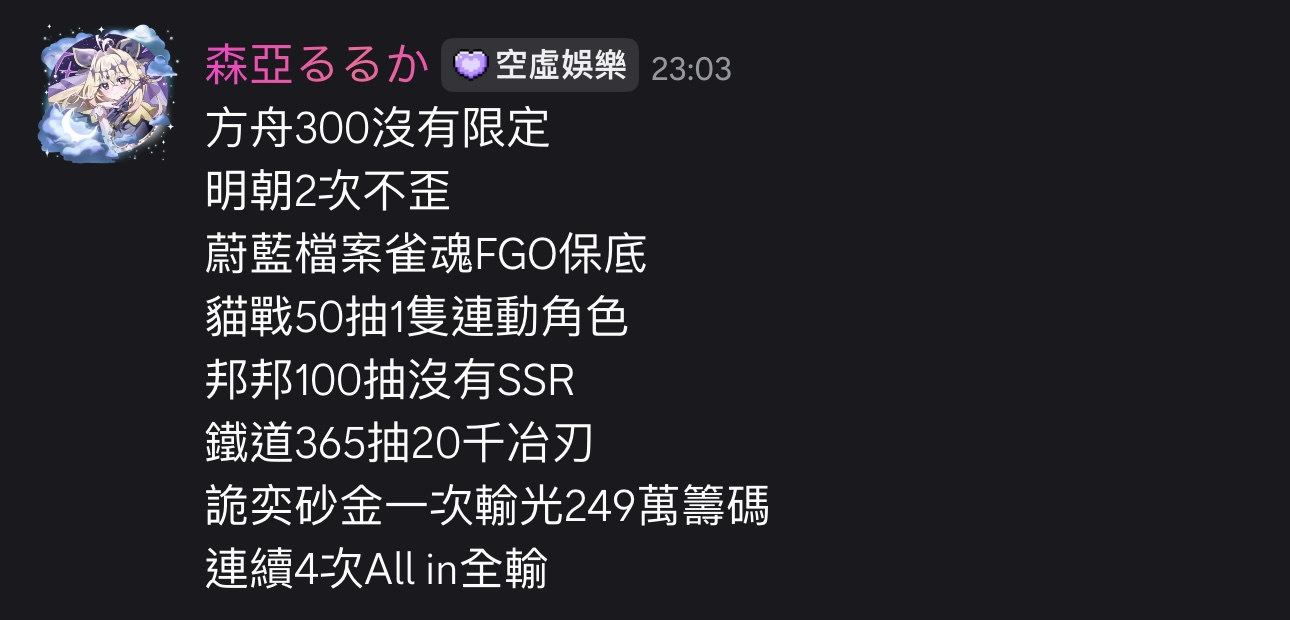
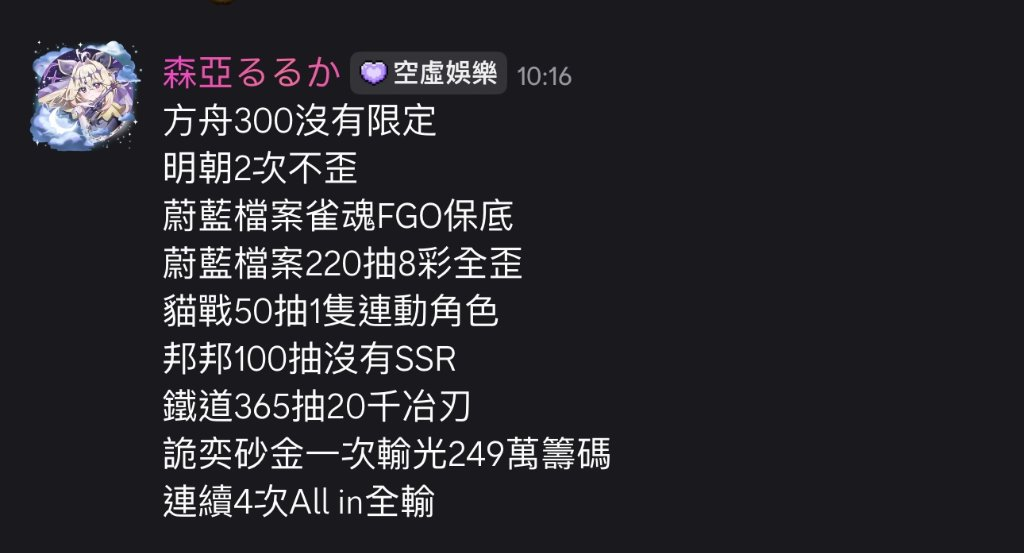
feat(chat): update nmsl2887 50w photo and add new gacha records to persona

Changed region(s): [[0.1562, 0.2767, 0.5938, 0.953], [0.0312, 0.0307, 0.5625, 0.2767]]

diff --git a/test_nmsl_trigger_photo.js b/test_nmsl_trigger_photo.js
@@ -1,0 +1,104 @@
+const assert = require('assert');
+const path = require('path');
+const fs = require('fs');
+const { get50wPhoto, get50kPhoto } = require('./discord-bot-tracker');
+const { buildSystemInstruction, getUserTitle, SPECIAL_USERS } = require('./geminiChatService');
+
+async function runTests() {
+  console.log('====================================================');
+  console.log('🧪 開始執行 nmsl2887 (臭甲/50w) 觸發圖片與人設戰績更新測試 (test_nmsl_trigger_photo.js)');
+  console.log('====================================================\n');
+
+  const EXPECTED_IMAGE_SIZE = 69517;
+
+  // ------------------------------------------------------------------
+  // 1. 圖片讀取與 Attachment 結構驗證
+  // ------------------------------------------------------------------
+  console.log('▶ [1/4] 測試 get50wPhoto() 與 get50kPhoto() 讀取新圖片...');
+  const photos = get50wPhoto();
+  assert.strictEqual(Array.isArray(photos), true, 'get50wPhoto 必須回傳陣列');
+  assert.strictEqual(photos.length, 1, '回傳陣列長度必須為 1');
+  
+  const photo = photos[0];
+  assert(photo && photo.attachment, '必須包含 AttachmentBuilder 實體與 attachment 緩衝區');
+  assert(Buffer.isBuffer(photo.attachment), 'attachment 必須為 Buffer');
+  assert.strictEqual(photo.attachment.length, EXPECTED_IMAGE_SIZE, `圖片 Buffer 大小必須為 ${EXPECTED_IMAGE_SIZE} bytes (符合新圖片)`);
+  assert(photo.name.includes('50w.3'), `檔名必須包含 50w.3，當前為: ${photo.name}`);
+
+  const aliasPhotos = get50kPhoto();
+  assert.strictEqual(aliasPhotos.length, 1, 'get50kPhoto 別名函式長度必須為 1');
+  assert.strictEqual(aliasPhotos[0].attachment.length, EXPECTED_IMAGE_SIZE, '別名函式 Buffer 大小亦必須符合新圖片');
+  console.log(`  ✅ 通過：成功載入 50w.3 圖片 (檔案名稱: ${photo.name}, 大小: ${photo.attachment.length} bytes)！\n`);
+
+  // ------------------------------------------------------------------
+  // 2. 副檔名相容性驗證 (.jpg 回退測試)
+  // ------------------------------------------------------------------
+  console.log('▶ [2/4] 測試 candidatePaths 多副檔名相容性 (.png / .jpg)...');
+  const pngPath = path.join(__dirname, '50w.3.png');
+  const tempBackupPath = path.join(__dirname, '50w.3.png.bak_test');
+
+  try {
+    // 暫時將 50w.3.png 改名，測試是否能順暢 fallback 至 50w.3.jpg
+    fs.renameSync(pngPath, tempBackupPath);
+    assert(fs.existsSync(path.join(__dirname, '50w.3.jpg')), '50w.3.jpg 必須存在於工作區');
+
+    const fallbackPhotos = get50wPhoto();
+    assert.strictEqual(fallbackPhotos.length, 1, 'Fallback 至 .jpg 後陣列長度必須為 1');
+    assert.strictEqual(fallbackPhotos[0].attachment.length, EXPECTED_IMAGE_SIZE, 'Fallback 讀取之 .jpg 大小必須正確');
+    assert.strictEqual(fallbackPhotos[0].name, '50w.3.jpg', 'Fallback 檔名應為 50w.3.jpg');
+    console.log('  ✅ 通過：當 .png 不存在時，自動平滑相容並讀取 .jpg 候選路徑！\n');
+  } finally {
+    // 還原 50w.3.png
+    if (fs.existsSync(tempBackupPath)) {
+      fs.renameSync(tempBackupPath, pngPath);
+    }
+  }
+
+  // ------------------------------------------------------------------
+  // 3. geminiChatService 提示詞戰績補充驗證
+  // ------------------------------------------------------------------
+  console.log('▶ [3/4] 測試 geminiChatService 中 nmsl2887 提示詞新增戰績...');
+  const nmslInstruction = buildSystemInstruction({
+    id: SPECIAL_USERS.NMSL.id,
+    username: SPECIAL_USERS.NMSL.usernames[0],
+  }, false, false);
+
+  assert(nmslInstruction.includes('鐵道365抽20千治刃'), 'Prompt 必須包含「鐵道365抽20千治刃」');
+  assert(nmslInstruction.includes('詭弈砂金一次輸光249萬籌碼'), 'Prompt 必須包含「詭弈砂金一次輸光249萬籌碼」');
+  assert(nmslInstruction.includes('連續4次All in全輸'), 'Prompt 必須包含「連續4次All in全輸」');
+
+  // 對話者為一般成員時，人設檔案庫 (第 535 行) 亦需包含該戰績
+  const guestInstruction = buildSystemInstruction({
+    id: '123456789',
+    username: 'regular_guest',
+  }, false, false);
+  assert(guestInstruction.includes('鐵道365抽20千治刃'), '全域人設檔案庫必須包含「鐵道365抽20千治刃」');
+  assert(guestInstruction.includes('詭弈砂金一次輸光249萬籌碼'), '全域人設檔案庫必須包含「詭弈砂金一次輸光249萬籌碼」');
+  assert(guestInstruction.includes('連續4次All in全輸'), '全域人設檔案庫必須包含「連續4次All in全輸」');
+
+  console.log('  ✅ 通過：nmsl2887 專屬對話規則與全域人設檔案庫皆已注入慘烈新戰績！\n');
+
+  // ------------------------------------------------------------------
+  // 4. 月天狼與 nmsl2887 嚴格隔離互斥防禦
+  // ------------------------------------------------------------------
+  console.log('▶ [4/4] 測試月天狼人設隔離與圖片互斥守衛...');
+  const yueXiInstruction = buildSystemInstruction({
+    id: '987654321',
+    username: SPECIAL_USERS.YUE_XI.usernames[0],
+  }, false, false);
+
+  assert(yueXiInstruction.includes('嚴格隔離原則'), '月天狼 Prompt 必須維持嚴格隔離原則');
+  assert(!yueXiInstruction.includes('狠狠對比臭甲 50 萬'), '月天狼 Prompt 絕對不可出現「狠狠對比臭甲 50 萬」！');
+
+  console.log('  ✅ 通過：月天狼與 nmsl2887 人設及戰績 100% 嚴密隔離！\n');
+
+  console.log('====================================================');
+  console.log('🎉 [SUCCESS] nmsl2887 觸發圖片更新與人設擴充單元測試全數通過！');
+  console.log('====================================================');
+  process.exit(0);
+}
+
+runTests().catch((err) => {
+  console.error('❌ 測試未通過:', err);
+  process.exit(1);
+});

diff --git a/geminiChatService.js b/geminiChatService.js
@@ -436,7 +436,7 @@ ${ratioMemoryBlock}
     specificRule = `【當前對話者是「臭甲 / 甲甲 / 50萬 / ICAC (nmsl2887)」】：
 1. 請稱呼對方為「臭甲」、「甲甲」、「50萬」或「ICAC」（或 50 萬非酋貴賓）。你知道他喜歡男性。
 2. 必須狠狠無情吐槽他萬年大黑臉的非洲人抽卡慘況！
-   • 熟記他的慘烈戰績：明日方舟 300 抽沒有限定、鳴潮 2 次不歪、蔚藍檔案吃保底、貓戰 50 抽才 1 隻聯動角、雀魂與 FGO 瘋狂保底、邦邦 100 抽零 SSR！
+   • 熟記他的慘烈戰績：明日方舟 300 抽沒有限定、鳴潮 2 次不歪、蔚藍檔案吃保底、貓戰 50 抽才 1 隻聯動角、雀魂與 FGO 瘋狂保底、邦邦 100 抽零 SSR、鐵道365抽20千治刃、詭弈砂金一次輸光249萬籌碼、連續4次All in全輸！
    • 結合他的「50萬」標籤與非酋悲劇，用侍者優雅語調狠狠調侃他的抽卡命運，例如問他 300 抽墜機的傷口好了沒，推薦他喝「純度 100% 暴死眼淚機油特調」。`;
   } else if (userId === SPECIAL_USERS.XUAN.id || SPECIAL_USERS.XUAN.usernames.includes(username)) {
     specificRule = `【當前對話者是「酒鬼 (xuan_05 / xuan_0503)」】：
@@ -532,7 +532,7 @@ ${ratioMemoryBlock}
     `- popsicle_cat.：專屬稱謂「雪糕貓」。正在服兵役，抽卡運氣極差！關鍵梗：肉多多、小萱、一陽指、醫生。`,
     `- moria.ruruka：專屬稱謂「蘭斯的寶」，是「主人的情人」，尊貴溫柔。`,
     `- eric20233459：專屬稱謂「安寶」，伺服器暱稱「再卷一下」，也是「主人的情人」，愛內卷。`,
-    `- nmsl2887：專屬稱謂「臭甲」、「甲甲」、「50萬」或「ICAC」。喜歡男性。宇宙級大非酋！抽卡慘烈戰績（必狠狠吐槽）：明日方舟 300 抽沒有限定、鳴潮 2 次不歪、蔚藍檔案保底、貓戰 50 抽 1 聯動角、雀魂/FGO 保底、邦邦 100 抽零 SSR！`,
+    `- nmsl2887：專屬稱謂「臭甲」、「甲甲」、「50萬」或「ICAC」。喜歡男性。宇宙級大非酋！抽卡慘烈戰績（必狠狠吐槽）：明日方舟 300 抽沒有限定、鳴潮 2 次不歪、蔚藍檔案保底、貓戰 50 抽 1 聯動角、雀魂/FGO 保底、邦邦 100 抽零 SSR、鐵道365抽20千治刃、詭弈砂金一次輸光249萬籌碼、連續4次All in全輸！`,
     `- xuan_05 (xuan_0503)：專屬稱謂「酒鬼」。115 學測和分科失利考不好，目前是 116 學測重考生，督促他快去讀書別喝酒。`,
     `- phamctxd_0826：伺服器管理者、群主，暱稱「CT / ct」，私底下「極度擅長穿女裝」。稱呼其「群主大人」或「群主 CT」。`,
     `- paohong.：專屬稱謂「菸鬼」。老煙槍，愛抽菸。`,

diff --git a/discord-bot-tracker.js b/discord-bot-tracker.js
@@ -947,22 +947,40 @@ function getDrunkerPhoto() {
 }
 
 // ==========================================
-// 💩 臭甲 / ICAC (nmsl2887) 專屬 50w.3 圖片獲取函式 (絕對優先 50w.3.png)
+// 💩 臭甲 / ICAC (nmsl2887) 專屬 50w.3 圖片獲取函式 (絕對優先 50w.3 圖片，支援多副檔名相容性)
 // ==========================================
 function get50wPhoto() {
   const candidatePaths = [
     path.join(__dirname, '50w.3.png'),
+    path.join(__dirname, '50w.3.jpg'),
+    path.join(__dirname, '50w.3.jpeg'),
+    path.join(__dirname, '50w.3.webp'),
     path.join(process.cwd(), '50w.3.png'),
+    path.join(process.cwd(), '50w.3.jpg'),
+    path.join(process.cwd(), '50w.3.jpeg'),
+    path.join(process.cwd(), '50w.3.webp'),
     path.join(process.env.HOME || '', 'bot', '50w.3.png'),
+    path.join(process.env.HOME || '', 'bot', '50w.3.jpg'),
+    path.join(process.env.HOME || '', 'bot', '50w.3.jpeg'),
+    path.join(process.env.HOME || '', 'bot', '50w.3.webp'),
     path.join(process.env.HOME || '', '50w.3.png'),
+    path.join(process.env.HOME || '', '50w.3.jpg'),
     path.join(process.env.USERPROFILE || '', 'bot', '50w.3.png'),
+    path.join(process.env.USERPROFILE || '', 'bot', '50w.3.jpg'),
     'C:\\Users\\ayaka\\bot\\50w.3.png',
+    'C:\\Users\\ayaka\\bot\\50w.3.jpg',
+    'C:\\Users\\ayaka\\bot\\50w.3.jpeg',
+    'C:\\Users\\ayaka\\bot\\50w.3.webp',
     path.join(__dirname, '50w.2.png'),
+    path.join(__dirname, '50w.2.jpg'),
     path.join(process.cwd(), '50w.2.png'),
+    path.join(process.cwd(), '50w.2.jpg'),
     path.join(process.env.HOME || '', 'bot', '50w.2.png'),
     'C:\\Users\\ayaka\\bot\\50w.2.png',
     path.join(__dirname, '50w.png'),
+    path.join(__dirname, '50w.jpg'),
     path.join(process.cwd(), '50w.png'),
+    path.join(process.cwd(), '50w.jpg'),
     'C:\\Users\\ayaka\\bot\\50w.png',
   ];
 
@@ -3282,3 +3300,18 @@ process.on('SIGINT', () => {
     process.exit(0);
   });
 });
+
+// ==========================================
+// 📦 模組匯出 (供單元測試與外部呼叫)
+// ==========================================
+if (typeof module !== 'undefined' && module.exports) {
+  module.exports = {
+    get50wPhoto,
+    get50kPhoto,
+    getYueXiPhotos,
+    getSnowCatPhoto,
+    getLaPhoto,
+    getLaodaPhoto,
+    getDrunkerPhoto,
+  };
+}

diff --git a/progress.md b/progress.md
@@ -138,6 +138,13 @@
     • `CASINO_GUIDE.md` & `GAMBLING_AND_CURRENCY_MECHANICS.md`：全面同步 v6.0 制度，移除大逃殺買馬死文字；將白皮書第十一章對照總表全面升級為 v6.0 真實機制（轉帳 50k、紅包 200k/500k、砂金 100w/All-in、單挑 500w 0% 抽稅雙爆入庫、大逃殺 200w 團滅入庫、德州 0% 抽水、雙金庫 1000w/2000w 與 00:00 富人稅），結案第十二章各項落差。
     • 單元測試 `test_v60_ui_and_command_descriptions.js` 擴充至 5/5 全數 PASS。
 
+- **更新 nmsl2887 臭甲/50w 專屬觸發圖片與人設戰績 (`feat-chat-nmsl-trigger-photo-update`)**:
+  - 將 `50w.3.png` 與 `50w.3.jpg` 替換為使用者提供之最新慘烈戰績圖（大小為 69,517 bytes）。
+  - `discord-bot-tracker.js`：升級 `get50wPhoto()` 候選路徑清單，支援 `.png`、`.jpg`、`.jpeg`、`.webp` 等多副檔名相容性，且始終優先讀取 50w.3 系列最新圖片；導出圖片獲取函式供單元測試與模組化調用。
+  - `geminiChatService.js`：同步更新第 535 行全域特殊成員人設檔案庫與第 439 行 1-on-1 專屬吐槽規則，注入最新慘烈戰績：「鐵道365抽20千治刃、詭弈砂金一次輸光249萬籌碼、連續4次All in全輸」。
+  - 新增專屬單元測試 `test_nmsl_trigger_photo.js` (4/4 PASS)，涵蓋 AttachmentBuilder 實體、Buffer 大小 (69,517 bytes)、.png 缺失時自動 fallback 至 .jpg、提示詞戰績驗證以及月天狼嚴格隔離互斥防禦。
+  - 既有 `test_member_triggers.js` 4/4 PASS 與 `init.cmd` 8 大驗證關卡全數通過。
+
 ## What's In Progress
 - 無（《v6.0「星際和平公司・財富重分配協議」》全數微任務與全域 UI 文案對齊已全數實作與驗證完畢）。
 
@@ -167,6 +174,8 @@
   - 擴充 `test_v60_ui_and_command_descriptions.js` 至 6/6 全數 PASS（新增紅包銷毀 Embed、高利貸 00:00 刷新與德州 5 席手冊斷言）。
 
 ## Evidence
+- `node test_nmsl_trigger_photo.js` 4/4 項單元測試全數通過（50w.3 圖片 Buffer 69,517 bytes、get50kPhoto 別名、.jpg 副檔名 fallback 相容性、人設戰績注入與月天狼隔離互斥）。
+- `node test_member_triggers.js` 4/4 項單元測試全數通過（月天狼隔離、雪糕貓關鍵詞、圖片實體載入與互斥過濾機制）。
 - `node test_v60_ui_and_command_descriptions.js` 6/6 項單元測試全數通過（SlashCommandBuilder 註冊描述與 options 邊界、/公司金庫 Embed 儀表板文案與動態彩金階梯、結算快捷按鈕滿注 100 萬、/轉帳 Embed 面板限額 50,000、德州撲克 UI/戰績/手冊 5 席與 0% 抽水、紅包進行中/逾期全額銷毀 Embed 與高利貸 00:00/+25 提示）。
 - `node test_red_packet.js` 8/8 項單元測試全數通過（紅包演算法、發送、禁止手動退回、24 小時逾期自動銷毀與頻道通知）。
 - `node test_v60_peripheral.js` 6/6 項單元測試全數通過（黑市稱號與今日大亨 40%/60% 分流、轉帳單次 50,000 上限與 4 小時冷卻、紅包單包 200,000 與單日 500,000 風控上限、連續微型轉帳累積跨越 1,600 即時自動贖身）。

diff --git a/session-handoff.md b/session-handoff.md
@@ -102,10 +102,16 @@
   - 修復 `aventurineCasinoService.js` 高利貸拒絕提示舊版「07:00 刷新」與「+400 星瓊」為「00:00 刷新」與「+25 星瓊」，並修復 `db.run` 未 await 的資料庫寫入競態問題。
   - 修復 `/德州撲克` 指令註冊描述、戰績提示與手冊為真實「1~4人＋NPC砂金（共5席）」及「Button輪轉與SB 2.5%、BB 5%」規則，排除 6 人座與 3,000 門檻殘留。
 
+16. **`feat-chat-nmsl-trigger-photo-update`** [done]:
+    - 將 `50w.3.png` 與 `50w.3.jpg` 替換為使用者提供之最新慘烈戰績圖（大小為 69,517 bytes）。
+    - `discord-bot-tracker.js`：升級 `get50wPhoto()` 候選路徑清單，支援 `.png`、`.jpg`、`.jpeg`、`.webp` 等多副檔名相容性，且始終優先讀取 50w.3 系列最新圖片；導出圖片獲取函式供單元測試與模組化調用。
+    - `geminiChatService.js`：同步更新第 535 行全域特殊成員人設檔案庫與第 439 行 1-on-1 專屬吐槽規則，注入最新慘烈戰績：「鐵道365抽20千治刃、詭弈砂金一次輸光249萬籌碼、連續4次All in全輸」。
+    - 新增專屬單元測試 `test_nmsl_trigger_photo.js` (4/4 PASS)，既有 `test_member_triggers.js` 4/4 PASS 與 `init.cmd` 8 大關卡全數 PASS。
+
 ## 3. 下一階段交接事項 (Next Steps)
-- **v6.0「星際和平公司・財富重分配協議」全數交付與加固完成**：
-  - 目前所有 7 大微任務與 UI 文案對齊皆已實作且驗證 100% 通過（`init.cmd` 8 大關卡全數 PASS、`test_red_packet.js` 8/8 PASS、`test_v60_ui_and_command_descriptions.js` 6/6 PASS、v6.0 專屬測試全數 PASS）。
-  - 若需部署至遠端正式伺服器，直接執行專屬一行流指令。
+- `feat-chat-nmsl-trigger-photo-update` 已全數施工與驗證完畢。
+- 下一棒若有新微任務，請依標準流程先於 `feature_list.json` 登錄 feature 後再行施作。
+- 遠端部署指令：`cd ~/bot && git pull && pm2 restart dc-bot --update-env`。
 
 ## 4. 關鍵環境與操作備忘 (Environment & Critical Constraints)
 - **遠端伺服器更新唯一指令**:
